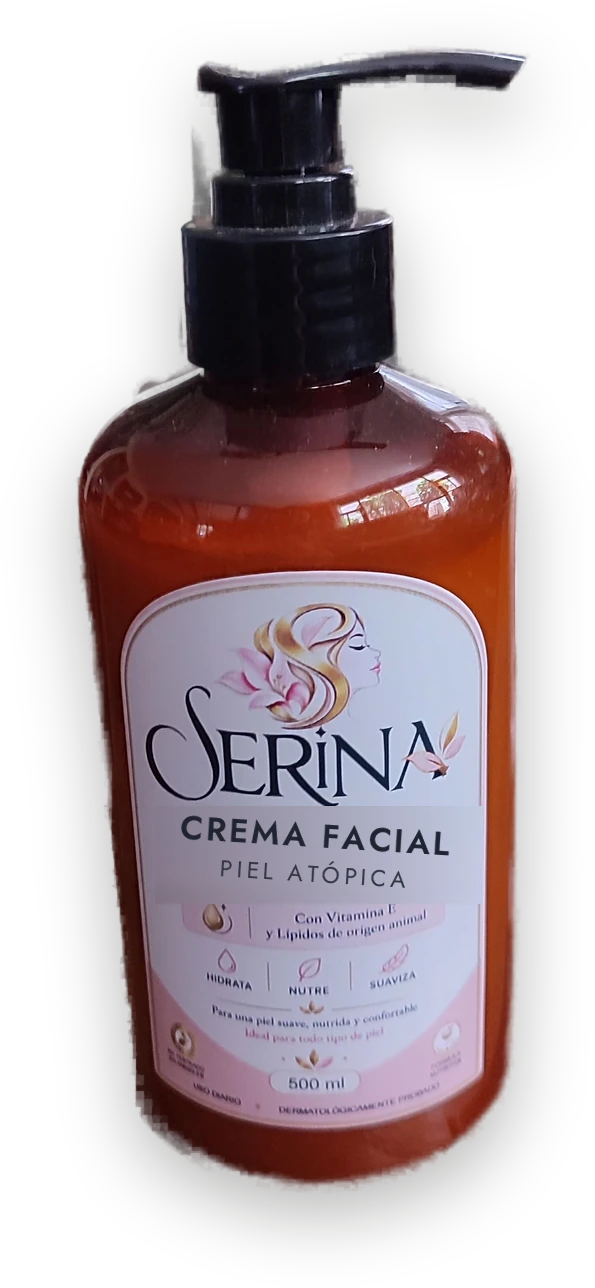
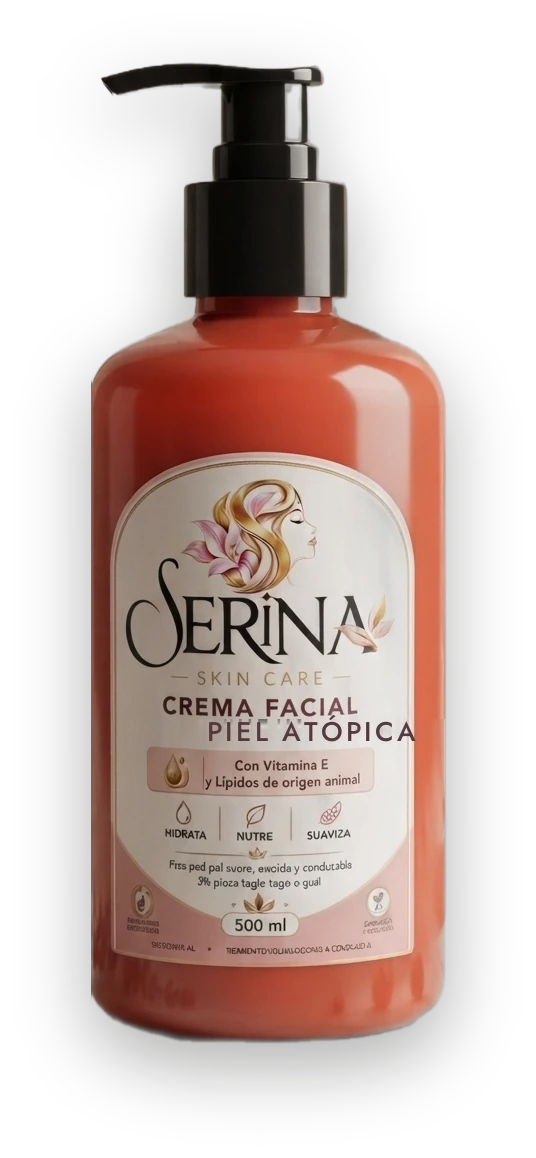
Actualiza catálogo con nuevas fotos y presentación 250 ml

diff --git a/index.html b/index.html
@@ -4,7 +4,7 @@
   <meta charset="utf-8">
   <meta name="viewport" content="width=device-width, initial-scale=1">
   <title>Serina Skin Care | Cremas faciales y corporales en Cochabamba</title>
-  <meta name="description" content="Cremas Serina: facial hidratante, corporal y facial para piel atópica. Fórmulas con Vitamina E para hidratar, nutrir y suavizar. Pide por WhatsApp en Cochabamba, Bolivia.">
+  <meta name="description" content="Cremas Serina: facial 500 ml, facial 250 ml en bote negro, corporal 500 ml y facial para piel atópica. Fórmulas con Vitamina E. Pide por WhatsApp en Cochabamba, Bolivia.">
   <meta name="theme-color" content="#faf4ea">
   <meta name="color-scheme" content="light">
   <meta name="author" content="Serina Skin Care">
@@ -20,13 +20,13 @@
   <link rel="preload" href="assets/fonts/CormorantGaramond-600.woff2" as="font" type="font/woff2" crossorigin>
   <link rel="preload" href="assets/fonts/CormorantGaramond-600-italic.woff2" as="font" type="font/woff2" crossorigin>
   <link rel="preload" href="assets/fonts/Jost-400.woff2" as="font" type="font/woff2" crossorigin>
-  <link rel="preload" as="image" href="assets/img/products/facial-1500.webp" imagesrcset="assets/img/products/facial-750.webp 347w, assets/img/products/facial-1500.webp 597w" imagesizes="(max-width: 720px) 60vw, 300px">
+  <link rel="preload" as="image" href="assets/img/products/facial-1500.webp" imagesrcset="assets/img/products/facial-750.webp 347w, assets/img/products/facial-1500.webp 536w" imagesizes="(max-width: 720px) 70vw, 300px">
   <link rel="stylesheet" href="assets/css/styles.css">
   <meta property="og:type" content="website">
   <meta property="og:site_name" content="Serina Skin Care">
   <meta property="og:locale" content="es_BO">
   <meta property="og:title" content="Serina Skin Care | Piel suave. Piel nutrida. Piel serena.">
-  <meta property="og:description" content="Cremas faciales y corporales con Vitamina E. Hidrata, nutre y suaviza. Pide por WhatsApp.">
+  <meta property="og:description" content="Cremas faciales y corporales con Vitamina E. Facial 500 ml y 250 ml, corporal 500 ml. Pide por WhatsApp.">
   <meta property="og:url" content="https://serina.bo/">
   <meta property="og:image" content="https://serina.bo/assets/img/og-image.jpg">
   <meta property="og:image:width" content="1200">
@@ -34,7 +34,7 @@
   <meta property="og:image:alt" content="Crema facial Serina y el mensaje Piel suave, piel nutrida, piel serena">
   <meta name="twitter:card" content="summary_large_image">
   <meta name="twitter:title" content="Serina Skin Care | Piel suave. Piel nutrida. Piel serena.">
-  <meta name="twitter:description" content="Cremas faciales y corporales con Vitamina E. Pide por WhatsApp.">
+  <meta name="twitter:description" content="Cremas faciales y corporales con Vitamina E. Facial 500 ml y 250 ml. Pide por WhatsApp.">
   <meta name="twitter:image" content="https://serina.bo/assets/img/og-image.jpg">
 </head>
 <body>
@@ -92,7 +92,7 @@
         <div class="hero-copy">
           <p class="eyebrow"><span class="eyebrow-line" aria-hidden="true"></span> Skin care · Cochabamba, Bolivia</p>
           <h1>Piel suave.<br>Piel nutrida.<br><em>Piel serena.</em></h1>
-          <p class="lead">Cremas de uso diario con Vitamina E para hidratar, nutrir y suavizar. Tres fórmulas, un mismo ritual de calma.</p>
+          <p class="lead">Cremas de uso diario con Vitamina E para hidratar, nutrir y suavizar. Tres fórmulas, un mismo ritual.</p>
           <div class="hero-actions">
             <a class="btn btn-primary" href="#productos">Elegir mi crema
               <span class="icon icon-arrow" aria-hidden="true"><svg viewBox="0 0 24 24" fill="none" stroke="currentColor" stroke-width="1.8" stroke-linecap="round" stroke-linejoin="round"><path d="M5 12h13"/><path d="m13 6 6 6-6 6"/></svg></span>
@@ -113,7 +113,7 @@
           <div class="hero-blob" aria-hidden="true"></div>
           <div class="hero-ring" aria-hidden="true"></div>
           <div class="hero-stage img-protect" data-protect>
-            <img src="assets/img/products/facial-1500.webp" srcset="assets/img/products/facial-750.webp 347w, assets/img/products/facial-1500.webp 597w" sizes="(max-width: 720px) 60vw, 300px" width="597" height="1291" alt="Crema facial Serina Hidratante Nutritiva de 500 ml con bomba negra" fetchpriority="high" draggable="false">
+            <img src="assets/img/products/facial-1500.webp" srcset="assets/img/products/facial-750.webp 347w, assets/img/products/facial-1500.webp 536w" sizes="(max-width: 720px) 70vw, 300px" width="536" height="1158" alt="Crema facial Serina Hidratante Nutritiva de 500 ml con bomba negra" fetchpriority="high" draggable="false">
             <span class="watermark" aria-hidden="true">© Serina</span>
           </div>
           <div class="float-card float-size">
@@ -148,9 +148,9 @@
         <div class="section-head">
           <div>
             <p class="eyebrow"><span class="eyebrow-line" aria-hidden="true"></span> La colección</p>
-            <h2>Tres fórmulas.<br><em>Un mismo ritual.</em></h2>
+            <h2>Tres fórmulas.<br><em>Cuatro presentaciones.</em></h2>
           </div>
-          <p class="section-lead">Elige la textura que tu piel necesita. Todas nuestras cremas están pensadas para el uso diario y se piden directo por WhatsApp.</p>
+          <p class="section-lead">La facial ahora también en un bote negro de 250 ml. Elige tu presentación y coordinamos todo por WhatsApp.</p>
         </div>
 
         <div class="product-grid">
@@ -161,7 +161,7 @@
             </div>
             <div class="card-stage img-protect" data-protect>
               <span class="stage-circle" aria-hidden="true"></span>
-              <img src="assets/img/products/facial-1500.webp" srcset="assets/img/products/facial-750.webp 347w, assets/img/products/facial-1500.webp 597w" sizes="(max-width: 700px) 45vw, 170px" width="597" height="1291" alt="Crema facial Serina Hidratante Nutritiva 500 ml" loading="lazy" decoding="async" draggable="false">
+              <img src="assets/img/products/facial-1500.webp" srcset="assets/img/products/facial-750.webp 347w, assets/img/products/facial-1500.webp 536w" sizes="(max-width: 700px) 80vw, (max-width: 980px) 60vw, (max-width: 1280px) 40vw, 260px" width="536" height="1158" alt="Crema facial Serina Hidratante Nutritiva 500 ml" loading="lazy" decoding="async" draggable="false">
               <span class="watermark" aria-hidden="true">© Serina</span>
             </div>
             <div class="card-body">
@@ -179,25 +179,50 @@
             </div>
           </article>
 
-          <article class="product-card card-corporal reveal">
+          <article class="product-card card-black reveal">
             <div class="card-top">
-              <span class="tag">Corporal</span>
+              <span class="tag">Facial · 250 ml</span>
               <span class="card-num" aria-hidden="true">02</span>
             </div>
             <div class="card-stage img-protect" data-protect>
               <span class="stage-circle" aria-hidden="true"></span>
-              <img src="assets/img/products/corporal-1500.webp" srcset="assets/img/products/corporal-750.webp 347w, assets/img/products/corporal-1500.webp 597w" sizes="(max-width: 700px) 45vw, 170px" width="597" height="1290" alt="Crema corporal Serina Hidratante Nutritiva 200 ml en bote negro" loading="lazy" decoding="async" draggable="false">
+              <img src="assets/img/products/facial-250-1500.webp" srcset="assets/img/products/facial-250-750.webp 369w, assets/img/products/facial-250-1500.webp 533w" sizes="(max-width: 700px) 80vw, (max-width: 980px) 60vw, (max-width: 1280px) 40vw, 260px" width="533" height="1082" alt="Crema facial Serina Hidratante Nutritiva 250 ml en bote negro" loading="lazy" decoding="async" draggable="false">
               <span class="watermark" aria-hidden="true">© Serina</span>
             </div>
             <div class="card-body">
-              <p class="card-kicker">Bote negro · 200 ml</p>
-              <h3>Crema corporal</h3>
-              <p class="card-size">200 ml</p>
-              <p class="card-desc">Nutrición ligera para brazos, piernas y todo el cuerpo. El paso que tu piel espera después de la ducha.</p>
+              <p class="card-kicker">Bote negro · Formato compacto</p>
+              <h3>Facial 250 ml</h3>
+              <p class="card-size">250 ml</p>
+              <p class="card-desc">La misma hidratación nutritiva en un formato práctico para llevar. Tu ritual también en tamaño compacto.</p>
               <ul class="chips" aria-label="Beneficios">
                 <li>Hidrata</li><li>Nutre</li><li>Suaviza</li>
               </ul>
-              <a class="btn btn-card" href="https://wa.me/59178302116" data-wa data-wa-msg="Hola Serina, quiero pedir la Crema Corporal Hidratante Nutritiva de 200 ml.">Pedir esta crema
+              <a class="btn btn-card" href="https://wa.me/59178302116" data-wa data-wa-msg="Hola Serina, quiero pedir la Crema Facial Hidratante Nutritiva de 250 ml en bote negro.">Pedir esta crema
+                <span class="icon icon-arrow" aria-hidden="true"><svg viewBox="0 0 24 24" fill="none" stroke="currentColor" stroke-width="1.8" stroke-linecap="round" stroke-linejoin="round"><path d="M5 12h13"/><path d="m13 6 6 6-6 6"/></svg></span>
+              </a>
+              <p class="card-note">Precio y stock por WhatsApp</p>
+            </div>
+          </article>
+
+          <article class="product-card card-corporal reveal">
+            <div class="card-top">
+              <span class="tag">Corporal</span>
+              <span class="card-num" aria-hidden="true">03</span>
+            </div>
+            <div class="card-stage img-protect" data-protect>
+              <span class="stage-circle" aria-hidden="true"></span>
+              <img src="assets/img/products/corporal-1500.webp" srcset="assets/img/products/corporal-750.webp 374w, assets/img/products/corporal-1500.webp 453w" sizes="(max-width: 700px) 80vw, (max-width: 980px) 60vw, (max-width: 1280px) 40vw, 260px" width="453" height="909" alt="Crema corporal Serina Hidratante Nutritiva 500 ml" loading="lazy" decoding="async" draggable="false">
+              <span class="watermark" aria-hidden="true">© Serina</span>
+            </div>
+            <div class="card-body">
+              <p class="card-kicker">Hidratante · Nutritiva</p>
+              <h3>Crema corporal</h3>
+              <p class="card-size">500 ml</p>
+              <p class="card-desc">Nutrición y suavidad para brazos, piernas y todo el cuerpo. El paso que tu piel espera después de la ducha.</p>
+              <ul class="chips" aria-label="Beneficios">
+                <li>Hidrata</li><li>Nutre</li><li>Suaviza</li>
+              </ul>
+              <a class="btn btn-card" href="https://wa.me/59178302116" data-wa data-wa-msg="Hola Serina, quiero pedir la Crema Corporal Hidratante Nutritiva de 500 ml.">Pedir esta crema
                 <span class="icon icon-arrow" aria-hidden="true"><svg viewBox="0 0 24 24" fill="none" stroke="currentColor" stroke-width="1.8" stroke-linecap="round" stroke-linejoin="round"><path d="M5 12h13"/><path d="m13 6 6 6-6 6"/></svg></span>
               </a>
               <p class="card-note">Precio y stock por WhatsApp</p>
@@ -207,11 +232,11 @@
           <article class="product-card card-atopic reveal">
             <div class="card-top">
               <span class="tag">Piel sensible</span>
-              <span class="card-num" aria-hidden="true">03</span>
+              <span class="card-num" aria-hidden="true">04</span>
             </div>
             <div class="card-stage img-protect" data-protect>
               <span class="stage-circle" aria-hidden="true"></span>
-              <img src="assets/img/products/atopic-1500.webp" srcset="assets/img/products/atopic-750.webp 347w, assets/img/products/atopic-1500.webp 597w" sizes="(max-width: 700px) 45vw, 170px" width="597" height="1291" alt="Crema facial Serina para piel atópica 500 ml" loading="lazy" decoding="async" draggable="false">
+              <img src="assets/img/products/atopic-1500.webp" srcset="assets/img/products/atopic-750.webp 347w, assets/img/products/atopic-1500.webp 536w" sizes="(max-width: 700px) 80vw, (max-width: 980px) 60vw, (max-width: 1280px) 40vw, 260px" width="536" height="1158" alt="Crema facial Serina para piel atópica 500 ml" loading="lazy" decoding="async" draggable="false">
               <span class="watermark" aria-hidden="true">© Serina</span>
             </div>
             <div class="card-body">
@@ -341,7 +366,7 @@
           </details>
           <details>
             <summary>¿Qué crema me conviene?<span class="faq-plus" aria-hidden="true"></span></summary>
-            <p>Si buscas hidratación diaria para el rostro, empieza por la facial de 500 ml. Para el cuerpo, la corporal de 200 ml. Si tu piel es sensible o con tendencia atópica, la facial para piel atópica es la opción pensada para ti.</p>
+            <p>Si buscas hidratación diaria para el rostro, elige la facial de 500 ml o la de 250 ml si prefieres un formato compacto. Para el cuerpo, la corporal de 500 ml. Si tu piel es sensible o con tendencia atópica, la facial para piel atópica de 500 ml es la opción pensada para ti.</p>
           </details>
           <details>
             <summary>¿Hacen envíos?<span class="faq-plus" aria-hidden="true"></span></summary>
@@ -381,9 +406,9 @@
         </div>
         <div class="final-media img-protect" data-protect>
           <div class="final-circle" aria-hidden="true"></div>
-          <img src="assets/img/products/facial-1500.webp" srcset="assets/img/products/facial-750.webp 347w, assets/img/products/facial-1500.webp 597w" sizes="(max-width: 900px) 50vw, 240px" width="597" height="1291" alt="Crema facial Serina de 500 ml" loading="lazy" decoding="async" draggable="false">
+          <img src="assets/img/products/facial-250-1500.webp" srcset="assets/img/products/facial-250-750.webp 369w, assets/img/products/facial-250-1500.webp 533w" sizes="(max-width: 900px) 55vw, 250px" width="533" height="1082" alt="Crema facial Serina de 250 ml en bote negro" loading="lazy" decoding="async" draggable="false">
           <span class="watermark" aria-hidden="true">© Serina</span>
-          <span class="final-tag">500 ml</span>
+          <span class="final-tag">250 ml</span>
         </div>
       </div>
     </section>
@@ -430,7 +455,8 @@
       <div class="footer-col">
         <h3>Productos</h3>
         <a href="#productos">Facial 500 ml</a>
-        <a href="#productos">Corporal 200 ml</a>
+        <a href="#productos">Facial 250 ml</a>
+        <a href="#productos">Corporal 500 ml</a>
         <a href="#productos">Piel atópica 500 ml</a>
       </div>
       <div class="footer-col">

diff --git a/assets/css/styles.css b/assets/css/styles.css
@@ -870,7 +870,7 @@ h2 em {
 
 .product-grid {
   display: grid;
-  grid-template-columns: repeat(3, minmax(0, 1fr));
+  grid-template-columns: repeat(4, minmax(0, 1fr));
   gap: 22px;
 }
 
@@ -902,6 +902,10 @@ h2 em {
 
 .card-atopic {
   background: linear-gradient(155deg, #e9efe3 0%, #dce7d5 100%);
+}
+
+.card-black {
+  background: linear-gradient(155deg, #e9e4dc 0%, #ded6cb 100%);
 }
 
 .card-top {
@@ -965,6 +969,10 @@ h2 em {
 
 .card-atopic .stage-circle {
   background: rgba(255, 252, 246, 0.3);
+}
+
+.card-black .stage-circle {
+  background: rgba(255, 252, 246, 0.28);
 }
 
 .card-stage img {
@@ -1565,7 +1573,7 @@ details[open] .faq-plus {
   position: relative;
   z-index: 2;
   width: auto;
-  height: 540px;
+  height: 500px;
   max-width: 100%;
   filter: drop-shadow(0 30px 30px rgba(70, 25, 18, 0.28));
 }
@@ -1930,6 +1938,12 @@ details[open] .faq-plus {
 }
 
 /* Responsive */
+@media (max-width: 1279px) {
+  .product-grid {
+    grid-template-columns: repeat(2, minmax(0, 1fr));
+  }
+}
+
 @media (max-width: 1080px) {
   .hero-visual {
     min-height: 570px;
@@ -2444,6 +2458,39 @@ details[open] .faq-plus {
 
   .legal-shell h1 {
     font-size: 46px;
+  }
+}
+
+@media (min-width: 1280px) {
+  .product-card {
+    min-height: 640px;
+    padding: 20px;
+  }
+
+  .card-stage {
+    height: 320px;
+  }
+
+  .card-stage img {
+    height: 312px;
+  }
+
+  .stage-circle {
+    width: 238px;
+  }
+
+  .card-body h3,
+  .card-atopic .card-body h3 {
+    font-size: 30px;
+  }
+
+  .card-desc {
+    font-size: 12.5px;
+  }
+
+  .chips li {
+    padding: 5px 8px;
+    font-size: 8.5px;
   }
 }
 
